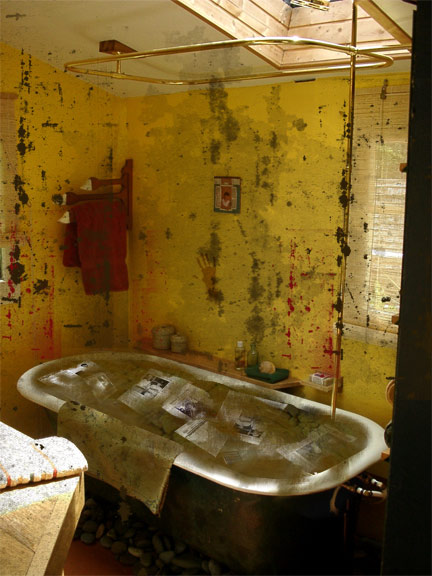
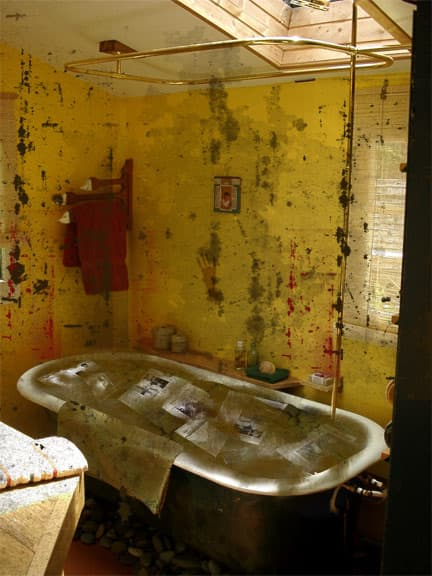
Image optimizations

Changed region(s): [[0.7824, 0.1875, 0.8125, 0.2188], [0.7824, 0.0938, 0.8125, 0.125]]

diff --git a/_shittyroommate/07-worst-possible-response.md b/_shittyroommate/07-worst-possible-response.md
@@ -32,7 +32,7 @@ After that they gave eachother a look and decided to wait for the moonsuit crew.
 >
 >*this look anything like the setup?*
 >
->![Fortress](/assets/images/shitty/fortress.gif)
+>![Fortress](/assets/images/shitty/fortress.jpg)
 
 Close, but no cigar. Let me see if I can mspaint it with my shitty skills.
 
@@ -50,7 +50,7 @@ The picture is painfully badly done, but it is basically correct.
 >
 >*Shii decided to show you this image:*
 >
->![The Phone Call](/assets/images/shitty/phonecall.gif)
+>![The Phone Call](/assets/images/shitty/phonecall.jpg)
 
 >**Shii Says:**
 >
@@ -58,7 +58,7 @@ The picture is painfully badly done, but it is basically correct.
 >
 >*Shii decided to show you this image:*
 >
->![Truck](/assets/images/shitty/truck.gif)
+>![Truck](/assets/images/shitty/truck.jpg)
 
 >**Shii Says:**
 >
@@ -68,7 +68,7 @@ The picture is painfully badly done, but it is basically correct.
 >
 >*Shii decided to show you this image:*
 >
->![Room of trash](/assets/images/shitty/roomoftrash.gif)
+>![Room of trash](/assets/images/shitty/roomoftrash.jpg)
 
 >**Shii came out of the closet to say:**
 >

diff --git a/_shittyroommate/09-say-it-with-pictures.md b/_shittyroommate/09-say-it-with-pictures.md
@@ -8,7 +8,7 @@ permalink: blag/shitty-roommate/say-it-with-pictures/
 >
 >*I played hookey with my high school P.E. class because I felt this had to be done*
 >
->*Shii decided to show you this image:*<br>![Gaaaaah](/assets/images/shitty/gaaah.gif)*
+>*Shii decided to show you this image:*<br>![Gaaaaah](/assets/images/shitty/gaaah.jpg)*
 
 An easier way to storypanel this would be me on the ground in the first panel, then a shot with me facing the camera taking most of the panel standing up and dusting myself off, but behind me over my shoulder is a tall figure with looming red eyes. Next panel is me just standing there like the previous frame but looking to the side, like I think something is up behind me. Final panel is me screaming like a sissy and tackling the figure, which turns out to be a standup of kirk.
 

diff --git a/_shittyroommate/02-feces.md b/_shittyroommate/02-feces.md
@@ -33,7 +33,7 @@ Ok, if you've ever owned a sliding door, you know that you can secure it from be
 >
 >*Oh wow, that explains it a lot better. That's genius, man.*
 >
->*Edit: I made a diagram:<br>![First diagram]({{ "/assets/images/shitty/diagram01.gif" | absolute_url }})*
+>*Edit: I made a diagram:<br>![First diagram]({{ "/assets/images/shitty/diagram01.jpg" | absolute_url }})*
 >
 >*Edit 2: Dammit, beaten.*
 
@@ -55,7 +55,7 @@ Ok, if you've ever owned a sliding door, you know that you can secure it from be
 >
 >*OP, is this anything like correct?*
 >
->![Sliding Part of door](/assets/images/shitty/diagram02.gif)
+>![Sliding Part of door](/assets/images/shitty/diagram02.jpg)
 >
 >*kick ass story, btw*
 

diff --git a/_shittyroommate/06-two-versions.md b/_shittyroommate/06-two-versions.md
@@ -46,7 +46,7 @@ Oh, and now that the story is over, I can spoil this.
 
 >**Shii decided to show you this image:**
 >
->*![Shitty Roommate Fuck Shit!](/assets/images/shitty/fuckshit.gif)*
+>*![Shitty Roommate Fuck Shit!](/assets/images/shitty/fuckshit.jpg)*
 
 
 >**squirrellypoo came out of the closet to say:**
